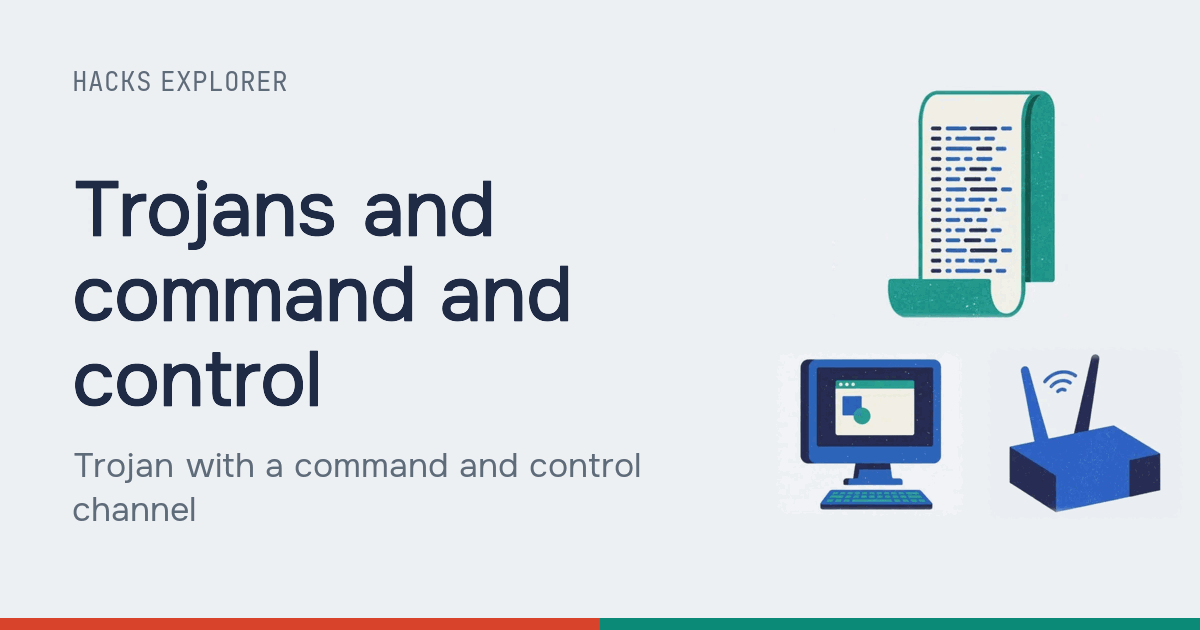
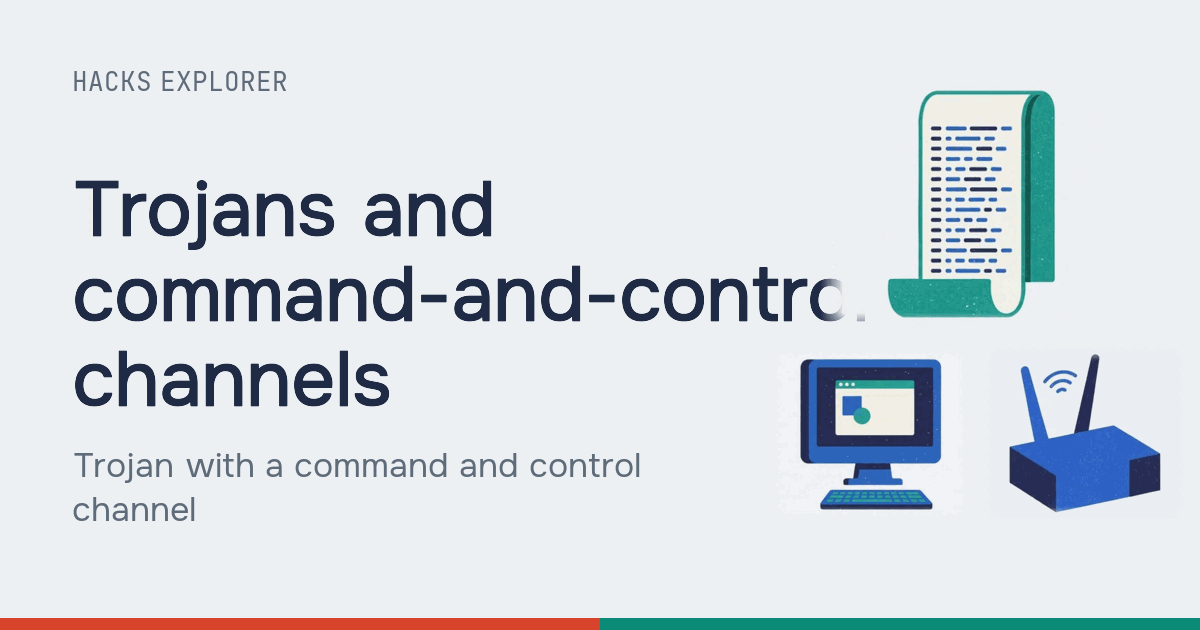
M5: lessons G6, G7, H1, H3 (ru, en)
Fact-check fixes applied; glossary cap test copies no more than fit under 600 terms.

Changed region(s): [[0.3392, 0.4222, 0.7092, 0.5127], [0.0925, 0.5429, 0.3392, 0.6635]]

diff --git a/scripts/lesson-data.test.ts b/scripts/lesson-data.test.ts
@@ -401,7 +401,7 @@ describe('the glossary', () => {
     expect(all.errors).toEqual([]);
     for (const g of all.glossaries) {
       // As many copies of today's terms as fit under the cap of the checker.
-      const times = Math.max(5, Math.floor(MAX_GLOSSARY_TERMS / g.terms.length));
+      const times = Math.max(1, Math.floor(MAX_GLOSSARY_TERMS / g.terms.length));
       const copy = (id: string, k: number) => (k === 0 ? id : `${id.slice(0, 28)}-x${String(k)}`);
       const big: Glossary = {
         ...g,

diff --git a/content/lessons/G6/ru.md b/content/lessons/G6/ru.md
@@ -107,7 +107,8 @@ Wi-Fi она одна. Отличается только физический а
 
 #### Глубже
 
-В старых сетях Wi-Fi служебные кадры, в том числе «отключись», ничем не защищены. Подделать их
+В сетях без PMF (а это большинство сетей WPA2) служебные кадры, в том числе «отключись», ничем
+не защищены. Подделать их
 может любой, кто знает адрес точки: он виден в каждом маячке. Так можно отключить одного гостя
 или всех сразу.
 
@@ -233,8 +234,8 @@ http://login.cafe.example
 - **WPA3 и PMF.** Точки и устройства с WPA3, где защита служебных кадров включена как
   обязательная. Поддельное «отключись» тогда не работает.
 - **Корпоративный Wi-Fi с проверкой сертификата.** Устройства сотрудников проверяют сертификат
-  сервера входа и имя, на которое он выдан. Без проверки злой двойник собирает пароли
-  сотрудников.
+  сервера входа и имя, на которое он выдан. Без проверки в сетях, где сотрудники входят
+  по паролю, злой двойник собирает пароли сотрудников.
 - **HTTPS и VPN в чужих сетях.** Даже если гость попал к двойнику, зашифрованный трафик тот не
   прочитает. Не проходите мимо ошибки сертификата.
 - **Не вводите пароли на странице входа в Wi-Fi.** Настоящей сети кафе не нужен пароль от вашей

diff --git a/content/lessons/G6/en.md b/content/lessons/G6/en.md
@@ -88,7 +88,7 @@ wall, the twin knows it too.
 ### `kick` "Disconnect"
 
 `attacker → user` · `attack` · `without-defence`
-Message: "disconnect" in the AP's name · Result: laptop disconnected
+Message: "disconnect", posing as the AP · Result: laptop disconnected
 
 ```text
 from:   00-00-5E-00-53-01 (forged)
@@ -109,7 +109,8 @@ deauthentication frame, drops the connection and immediately looks for CafeNet a
 
 #### Deeper
 
-On older Wi-Fi networks, management frames such as "disconnect" are not protected at all. Anyone
+On networks without PMF (most WPA2 networks), management frames such as "disconnect" are not
+protected at all. Anyone
 who knows the access point's address can forge them, and that address is in every beacon. One
 guest or everyone at once can be kicked off this way.
 
@@ -184,7 +185,7 @@ into a Wi-Fi login page.
 ### `kick-pmf` The forgery fails
 
 `attacker → user` · `attack` · `with-defence` · `stopped`
-Message: forged "disconnect" · Result: check failed, frame dropped
+Message: "disconnect", posing as the AP · Result: check failed, frame dropped
 
 ```text
 frame:  deauthentication from 00-00-5E-00-53-01
@@ -237,8 +238,8 @@ the laptop will join any access point with the right name.
 - **WPA3 and PMF.** Access points and devices with WPA3 and management frame protection set to
   required. A forged "disconnect" then does nothing.
 - **Corporate Wi-Fi with certificate checks.** Staff devices check the sign-in server's
-  certificate and the name it was issued for. Without that check, an evil twin collects staff
-  passwords.
+  certificate and the name it was issued for. Without that check, on networks where staff sign in
+  with a password, an evil twin collects their passwords.
 - **HTTPS and a VPN on other people's networks.** Even if a guest ends up on the twin, it cannot
   read encrypted traffic. Do not click past certificate errors.
 - **Never type passwords into a Wi-Fi login page.** A real café network does not need your email

diff --git a/content/lessons/G7/en.md b/content/lessons/G7/en.md
@@ -63,7 +63,7 @@ The network numbers in this lesson come from the range reserved for documentatio
 the addresses from RFC 5737. BGP does not check that a network really holds the addresses it
 announces: RFC 4272 names this as one of the protocol's fundamental weaknesses.
 
-### `hijack` "No, they're mine, and more precisely"
+### `hijack` "No, they're mine, and more specifically"
 
 `attacker → isp` · `attack` · `without-defence`
 Message: /25 at AS64511 · Result: accepted, it is more specific
@@ -183,8 +183,8 @@ instead of the bank.
 
 #### Deeper
 
-TLS protects against a fake site: the attacker does not have the private key for bank.example's
-certificate, and the browser will show an error. But TLS does not save availability: the traffic
+TLS protects against a fake site as long as the attacker cannot get a certificate for
+bank.example: without its private key the browser shows an error. But TLS does not save availability: the traffic
 still never reaches the bank. That is why routes are protected in the network itself.
 
 ### `deliver` The packet arrives
@@ -204,8 +204,8 @@ that route.
 
 #### Deeper
 
-RPKI origin validation only checks who stands at the start of the path, that is, whose addresses
-these are. It does not catch a forged path as a whole. Other mechanisms exist for that, and until
+RPKI origin validation only checks the origin: the last network in the path, the one that
+claims the addresses. It does not catch a forged path as a whole. Other mechanisms exist for that, and until
 they are everywhere, providers add filters on top of RPKI: they accept from each neighbour only
 the addresses that neighbour should announce.
 

diff --git a/content/lessons/H3/ru.md b/content/lessons/H3/ru.md
@@ -170,8 +170,9 @@ TA0011 «Command and Control». Обычные веб-протоколы для 
 
 #### Глубже
 
-MITRE ATT&CK советует ограничивать и отслеживать исходящий веб-трафик, чтобы он шёл только к
-одобренным адресам (мера M1037 «Filter Network Traffic»), и ставить системы обнаружения и
+MITRE ATT&CK советует ограничивать и отслеживать исходящий веб-трафик с важных серверов, чтобы
+он шёл только к одобренным адресам (мера M1037 «Filter Network Traffic»); тот же приём работает
+и для компьютеров офиса через шлюз. Ещё он советует ставить системы обнаружения и
 предотвращения вторжений с сигнатурами вредных программ (M1031). Список разрешённых строже всего
 подходит серверам, которым почти никуда не нужно ходить.
 

diff --git a/content/locales/ru/glossary/network.md b/content/locales/ru/glossary/network.md
@@ -118,7 +118,8 @@ T1552.005.
 Формы: PMF, защищённые служебные кадры, защищённых служебных кадров, защита служебных кадров, защиты служебных кадров
 
 Protected Management Frames, защищённые служебные кадры Wi-Fi (поправка IEEE 802.11w). Команды
-вроде «отключись» защищены ключом сети, и подделку устройство отбрасывает. В сетях WPA3
+вроде «отключись» защищены ключом соединения между устройством и его точкой доступа, и
+подделку устройство отбрасывает. В сетях WPA3
 обязательны.
 
 ## `bgp` BGP

diff --git a/content/lessons/H3/en.md b/content/lessons/H3/en.md
@@ -1,4 +1,4 @@
-# Trojans and command and control
+# Trojans and command-and-control channels
 
 `lesson` H3 · `section` H · `wave` 3 · `format` 1
 
@@ -174,8 +174,9 @@ useless.
 
 #### Deeper
 
-MITRE ATT&CK advises restricting and monitoring outbound web traffic so it goes only to approved
-destinations (mitigation M1037 "Filter Network Traffic"), and running intrusion detection and
+MITRE ATT&CK advises restricting and monitoring outbound web traffic from critical servers so it
+goes only to approved destinations (mitigation M1037 "Filter Network Traffic"); the same idea
+works for office computers through a gateway. It also advises running intrusion detection and
 prevention systems with signatures for malware (M1031). A strict allowlist suits servers best,
 since they barely need to go anywhere.
 

diff --git a/content/locales/ru/glossary/basics.md b/content/locales/ru/glossary/basics.md
@@ -151,7 +151,7 @@
 
 Ошибка, при которой программа записывает данные за конец отведённой им ячейки памяти и портит
 соседние данные. На стеке так затирают адрес возврата и заставляют программу выполнить чужой код
-(CWE-121). Языки, которые сами проверяют границы, от этого защищены.
+(CWE-121). Языки, которые сами проверяют границы, почти исключают такую ошибку.
 
 ## `stack-canary` Канарейка стека
 

diff --git a/content/locales/en/glossary/network.md b/content/locales/en/glossary/network.md
@@ -119,7 +119,8 @@ sub-technique T1557.004 "Evil Twin".
 Forms: PMF, protected management frames, management frame protection
 
 Protected Management Frames, the IEEE 802.11w amendment to Wi-Fi. Control messages such as
-"disconnect" are protected with the network key, and a device throws forged ones away. Mandatory
+"disconnect" are protected with the key of the connection between the device and its access
+point, and a device throws forged ones away. Mandatory
 on WPA3 networks.
 
 ## `bgp` BGP

diff --git a/content/locales/en/glossary/basics.md b/content/locales/en/glossary/basics.md
@@ -154,7 +154,7 @@ Forms: buffer overflow, buffer overflows, overflow, overflows
 
 A bug where a program writes data past the end of the memory slot set aside for it and damages
 the data next to it. On the stack this overwrites the return address and makes the program run
-foreign code (CWE-121). Languages that check bounds by themselves are protected from it.
+foreign code (CWE-121). Languages that check bounds by themselves largely rule it out.
 
 ## `stack-canary` Stack canary
 

diff --git a/content/locales/en/catalog.md b/content/locales/en/catalog.md
@@ -81,7 +81,7 @@ The short name of a section, on its button in the lessons column, follows « · 
 
 - `H1` Buffer overflow
 - `H2` Ransomware
-- `H3` Trojans and command and control
+- `H3` Trojans and command-and-control channels
 - `H4` Worms
 - `H5` Supply chain attacks
 - `H6` Dangerous dependencies and typosquatting
